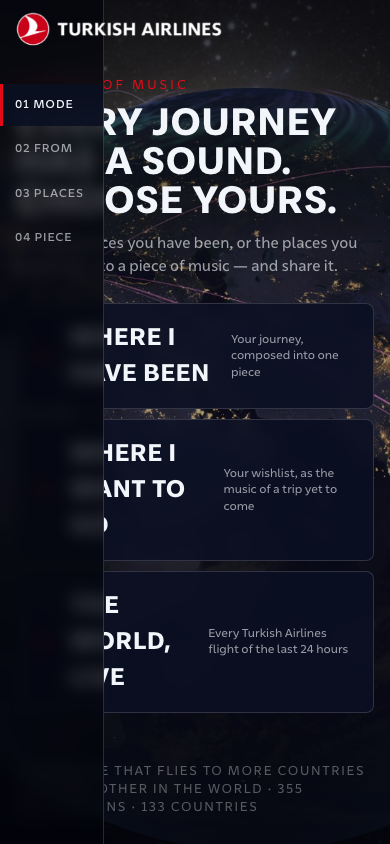
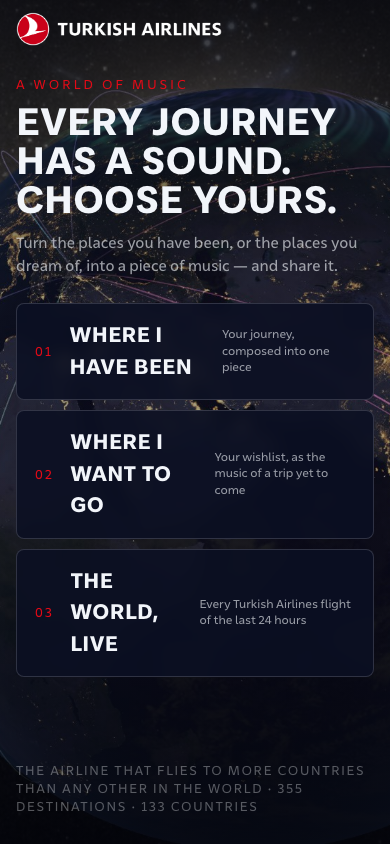
docs: v1 hero fits one screen, v3 without the side rail

diff --git a/docs/ui-preview/v3-mission.html b/docs/ui-preview/v3-mission.html
@@ -68,17 +68,12 @@ h1{margin:0;font-family:var(--display);font-weight:700;letter-spacing:.005em;tex
 @media (max-width:760px){
  .globe{left:0!important;right:0!important;top:0!important;bottom:0!important;inset:0!important;width:auto!important;height:auto!important;transform:none!important;border-radius:0!important;opacity:.95!important;filter:none!important;background-size:cover!important;background-position:44% 42%!important}
  .veil{background:linear-gradient(180deg,rgba(2,3,10,.82) 0%,rgba(2,3,10,.35) 34%,rgba(2,3,10,.3) 62%,rgba(2,3,10,.88) 100%)!important}
- body.v3 main{padding-left:16px}.rail{display:none}
- body.v1 #s-entry h1{font-size:46px}
- .mode b{font-size:24px!important}
+ body.v1 #s-entry h1{font-size:36px}
+ .mode b{font-size:21px!important}
 }
 
 .globe{right:-8vw;top:50%;width:70vw;height:70vw;transform:translateY(-50%);border-radius:50%;opacity:.7}
 .veil{background:linear-gradient(90deg,#02030A 18%,rgba(2,3,10,.78) 48%,rgba(2,3,10,.2) 100%),repeating-linear-gradient(0deg,transparent 0 47px,rgba(242,245,250,.04) 47px 48px),repeating-linear-gradient(90deg,transparent 0 47px,rgba(242,245,250,.04) 47px 48px)}
-main{padding-left:132px}
-.rail{position:fixed;left:0;top:0;bottom:0;width:104px;z-index:4;border-right:1px solid var(--line);background:rgba(2,3,10,.7);backdrop-filter:blur(8px);padding:84px 0 0;display:flex;flex-direction:column;gap:2px}
-.rail button{background:none;border:0;border-left:3px solid transparent;text-align:left;padding:14px 12px;font:500 11px/1.3 var(--wide);letter-spacing:.08em;color:var(--dim)}
-.rail button.on{border-left-color:var(--red2);color:var(--ink);background:rgba(10,15,34,.9)}
 #s-entry{justify-content:center;max-width:760px}
 #s-entry h1{font-size:clamp(38px,5.4vw,72px);line-height:1.02}
 .modes{display:grid;gap:10px;margin-top:26px}
@@ -98,7 +93,7 @@ kbd{font-family:var(--wide);border:1px solid var(--line);border-radius:4px;paddi
 <div class="stage"><div class="globe"></div><div class="veil"></div></div>
 <header class="bar"><img class="lockup" src="assets/tk-lockup-light.png" alt="Turkish Airlines">
 <div class="sw"><button data-go="entry" class="on">Giriş</button><button data-go="origin">Nereden</button><button data-go="dests">Nereye</button><button data-go="result">Sonuç</button><button data-go="share">Paylaş</button></div></header>
-<nav class="rail" aria-label="Steps"><button data-go="entry" class="on">01 MODE</button><button data-go="origin">02 FROM</button><button data-go="dests">03 PLACES</button><button data-go="result">04 PIECE</button></nav>
+
 <main>
 <section id="s-entry" class="screen on">
 <p class="eyebrow">A WORLD OF MUSIC</p>

diff --git a/docs/ui-preview/v1-obsidian.html b/docs/ui-preview/v1-obsidian.html
@@ -68,20 +68,19 @@ h1{margin:0;font-family:var(--display);font-weight:700;letter-spacing:.005em;tex
 @media (max-width:760px){
  .globe{left:0!important;right:0!important;top:0!important;bottom:0!important;inset:0!important;width:auto!important;height:auto!important;transform:none!important;border-radius:0!important;opacity:.95!important;filter:none!important;background-size:cover!important;background-position:44% 42%!important}
  .veil{background:linear-gradient(180deg,rgba(2,3,10,.82) 0%,rgba(2,3,10,.35) 34%,rgba(2,3,10,.3) 62%,rgba(2,3,10,.88) 100%)!important}
- body.v3 main{padding-left:16px}.rail{display:none}
- body.v1 #s-entry h1{font-size:46px}
- .mode b{font-size:24px!important}
+ body.v1 #s-entry h1{font-size:36px}
+ .mode b{font-size:21px!important}
 }
 
 .globe{right:-18vw;bottom:-30vh;width:96vw;height:96vw;max-width:1500px;max-height:1500px;border-radius:50%;background-size:cover;background-position:center;opacity:.9;box-shadow:0 0 120px rgba(201,1,25,.25)}
 .veil{background:linear-gradient(90deg,#02030A 8%,rgba(2,3,10,.72) 42%,rgba(2,3,10,0) 74%),linear-gradient(0deg,rgba(2,3,10,.5),transparent 40%)}
 #s-entry{justify-content:center;max-width:720px;padding-left:2vw}
-#s-entry h1{font-family:var(--display-c);font-size:clamp(48px,7.4vw,98px);line-height:.95;text-transform:uppercase;font-weight:700;letter-spacing:.005em}
+#s-entry h1{font-family:var(--display-c);font-size:clamp(34px,4.4vw,62px);line-height:.98;text-transform:uppercase;font-weight:700;letter-spacing:.005em}
 #s-entry h1 em{font-style:normal;color:var(--red2)}
-.hairline{width:64px;height:3px;background:var(--red);margin:22px 0}
-.modes{display:flex;flex-direction:column;margin-top:30px;border-top:1px solid var(--line)}
-.mode{border:0;border-bottom:1px solid var(--line);border-radius:0;background:transparent;backdrop-filter:none;padding:18px 4px;align-items:center;gap:18px}
-.mode .n{width:30px}.mode b{flex:1;font-size:30px;letter-spacing:.04em;font-family:var(--display-c)}
+.hairline{width:56px;height:3px;background:var(--red);margin:16px 0}
+.modes{display:flex;flex-direction:column;margin-top:20px;border-top:1px solid var(--line)}
+.mode{border:0;border-bottom:1px solid var(--line);border-radius:0;background:transparent;backdrop-filter:none;padding:13px 4px;align-items:center;gap:18px}
+.mode .n{width:30px}.mode b{flex:1;font-size:24px;letter-spacing:.04em;font-family:var(--display-c)}
 .mode i{display:none}.mode .arr{color:var(--red2);transition:transform .2s}.mode:hover .arr{transform:translateX(6px)}
 .mode:hover{border-color:var(--line);background:rgba(201,1,25,.08)}
 

diff --git a/docs/ui-preview/v2-voyage.html b/docs/ui-preview/v2-voyage.html
@@ -68,9 +68,8 @@ h1{margin:0;font-family:var(--display);font-weight:700;letter-spacing:.005em;tex
 @media (max-width:760px){
  .globe{left:0!important;right:0!important;top:0!important;bottom:0!important;inset:0!important;width:auto!important;height:auto!important;transform:none!important;border-radius:0!important;opacity:.95!important;filter:none!important;background-size:cover!important;background-position:44% 42%!important}
  .veil{background:linear-gradient(180deg,rgba(2,3,10,.82) 0%,rgba(2,3,10,.35) 34%,rgba(2,3,10,.3) 62%,rgba(2,3,10,.88) 100%)!important}
- body.v3 main{padding-left:16px}.rail{display:none}
- body.v1 #s-entry h1{font-size:46px}
- .mode b{font-size:24px!important}
+ body.v1 #s-entry h1{font-size:36px}
+ .mode b{font-size:21px!important}
 }
 
 .globe{left:50%;bottom:-62vw;width:130vw;height:130vw;transform:translateX(-50%);border-radius:50%;box-shadow:0 -30px 140px rgba(63,200,242,.25),inset 0 0 120px rgba(2,3,10,.55)}

diff --git a/docs/ui-preview/v4-boarding.html b/docs/ui-preview/v4-boarding.html
@@ -68,9 +68,8 @@ h1{margin:0;font-family:var(--display);font-weight:700;letter-spacing:.005em;tex
 @media (max-width:760px){
  .globe{left:0!important;right:0!important;top:0!important;bottom:0!important;inset:0!important;width:auto!important;height:auto!important;transform:none!important;border-radius:0!important;opacity:.95!important;filter:none!important;background-size:cover!important;background-position:44% 42%!important}
  .veil{background:linear-gradient(180deg,rgba(2,3,10,.82) 0%,rgba(2,3,10,.35) 34%,rgba(2,3,10,.3) 62%,rgba(2,3,10,.88) 100%)!important}
- body.v3 main{padding-left:16px}.rail{display:none}
- body.v1 #s-entry h1{font-size:46px}
- .mode b{font-size:24px!important}
+ body.v1 #s-entry h1{font-size:36px}
+ .mode b{font-size:21px!important}
 }
 
 .globe{inset:-4%;opacity:.8;filter:saturate(1.1) blur(1px)}

diff --git a/docs/ui-preview/build.py b/docs/ui-preview/build.py
@@ -77,9 +77,8 @@ BASE_CSS += r"""
 @media (max-width:760px){
  .globe{left:0!important;right:0!important;top:0!important;bottom:0!important;inset:0!important;width:auto!important;height:auto!important;transform:none!important;border-radius:0!important;opacity:.95!important;filter:none!important;background-size:cover!important;background-position:44% 42%!important}
  .veil{background:linear-gradient(180deg,rgba(2,3,10,.82) 0%,rgba(2,3,10,.35) 34%,rgba(2,3,10,.3) 62%,rgba(2,3,10,.88) 100%)!important}
- body.v3 main{padding-left:16px}.rail{display:none}
- body.v1 #s-entry h1{font-size:46px}
- .mode b{font-size:24px!important}
+ body.v1 #s-entry h1{font-size:36px}
+ .mode b{font-size:21px!important}
 }
 """
 V_CSS = {
@@ -87,12 +86,12 @@ V_CSS = {
 .globe{right:-18vw;bottom:-30vh;width:96vw;height:96vw;max-width:1500px;max-height:1500px;border-radius:50%;background-size:cover;background-position:center;opacity:.9;box-shadow:0 0 120px rgba(201,1,25,.25)}
 .veil{background:linear-gradient(90deg,#02030A 8%,rgba(2,3,10,.72) 42%,rgba(2,3,10,0) 74%),linear-gradient(0deg,rgba(2,3,10,.5),transparent 40%)}
 #s-entry{justify-content:center;max-width:720px;padding-left:2vw}
-#s-entry h1{font-family:var(--display-c);font-size:clamp(48px,7.4vw,98px);line-height:.95;text-transform:uppercase;font-weight:700;letter-spacing:.005em}
+#s-entry h1{font-family:var(--display-c);font-size:clamp(34px,4.4vw,62px);line-height:.98;text-transform:uppercase;font-weight:700;letter-spacing:.005em}
 #s-entry h1 em{font-style:normal;color:var(--red2)}
-.hairline{width:64px;height:3px;background:var(--red);margin:22px 0}
-.modes{display:flex;flex-direction:column;margin-top:30px;border-top:1px solid var(--line)}
-.mode{border:0;border-bottom:1px solid var(--line);border-radius:0;background:transparent;backdrop-filter:none;padding:18px 4px;align-items:center;gap:18px}
-.mode .n{width:30px}.mode b{flex:1;font-size:30px;letter-spacing:.04em;font-family:var(--display-c)}
+.hairline{width:56px;height:3px;background:var(--red);margin:16px 0}
+.modes{display:flex;flex-direction:column;margin-top:20px;border-top:1px solid var(--line)}
+.mode{border:0;border-bottom:1px solid var(--line);border-radius:0;background:transparent;backdrop-filter:none;padding:13px 4px;align-items:center;gap:18px}
+.mode .n{width:30px}.mode b{flex:1;font-size:24px;letter-spacing:.04em;font-family:var(--display-c)}
 .mode i{display:none}.mode .arr{color:var(--red2);transition:transform .2s}.mode:hover .arr{transform:translateX(6px)}
 .mode:hover{border-color:var(--line);background:rgba(201,1,25,.08)}
 
@@ -131,10 +130,6 @@ V_CSS = {
 "v3": r"""
 .globe{right:-8vw;top:50%;width:70vw;height:70vw;transform:translateY(-50%);border-radius:50%;opacity:.7}
 .veil{background:linear-gradient(90deg,#02030A 18%,rgba(2,3,10,.78) 48%,rgba(2,3,10,.2) 100%),repeating-linear-gradient(0deg,transparent 0 47px,rgba(242,245,250,.04) 47px 48px),repeating-linear-gradient(90deg,transparent 0 47px,rgba(242,245,250,.04) 47px 48px)}
-main{padding-left:132px}
-.rail{position:fixed;left:0;top:0;bottom:0;width:104px;z-index:4;border-right:1px solid var(--line);background:rgba(2,3,10,.7);backdrop-filter:blur(8px);padding:84px 0 0;display:flex;flex-direction:column;gap:2px}
-.rail button{background:none;border:0;border-left:3px solid transparent;text-align:left;padding:14px 12px;font:500 11px/1.3 var(--wide);letter-spacing:.08em;color:var(--dim)}
-.rail button.on{border-left-color:var(--red2);color:var(--ink);background:rgba(10,15,34,.9)}
 #s-entry{justify-content:center;max-width:760px}
 #s-entry h1{font-size:clamp(38px,5.4vw,72px);line-height:1.02}
 .modes{display:grid;gap:10px;margin-top:26px}
@@ -227,7 +222,7 @@ def sheet_html(v):
 <button class="linkbtn">COPY LINK</button><button class="linkbtn" id="closeSheet">CLOSE</button></div></div>"""
 
 def build(v,fname,title,desc,src):
-    rail = '<nav class="rail" aria-label="Steps"><button data-go="entry" class="on">01 MODE</button><button data-go="origin">02 FROM</button><button data-go="dests">03 PLACES</button><button data-go="result">04 PIECE</button></nav>' if v=="v3" else ""
+    rail = ""
     result_top = ('<div class="pass"><div class="st"></div><div class="bd"><div style="display:flex;align-items:center;gap:12px"><img src="assets/tk-lockup-dark.png" alt="Turkish Airlines" style="height:24px;width:auto"><span style="font-size:11px;letter-spacing:.2em;color:rgba(2,3,10,.6)">A WORLD OF MUSIC · BOARDING PASS</span></div><div class="rt">LHR <span>→</span> IST <span>→</span> DPS</div><div class="meta"><div>PIECE<b>Wandering through Asia-Pacific</b></div><div>VOICE<b>Harp</b></div><div>TEMPO<b>84 BPM</b></div><div>DISTANCE<b>12,614 km</b></div></div></div><div class="ds"><span>SEAT</span><b style="font-size:20px">01A</b><span>355 · 133</span></div></div>'
                   if v=="v4" else
                   '<div class="eyebrow">YOUR PIECE</div><h1 style="font-size:clamp(28px,4vw,52px)">Wandering through Asia-Pacific</h1><div class="stats"><span class="stat">5 DESTINATIONS</span><span class="stat">5 COUNTRIES</span><span class="stat">41,667 KM</span><span class="stat">SIGNATURE · HARP</span></div>')
